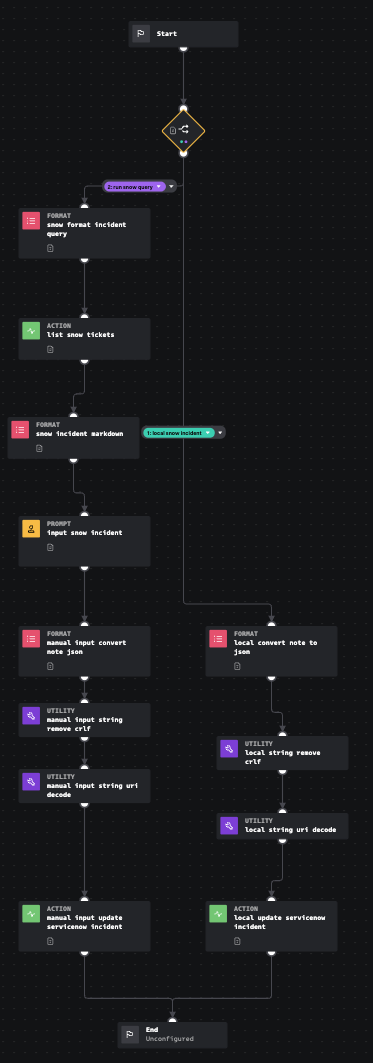
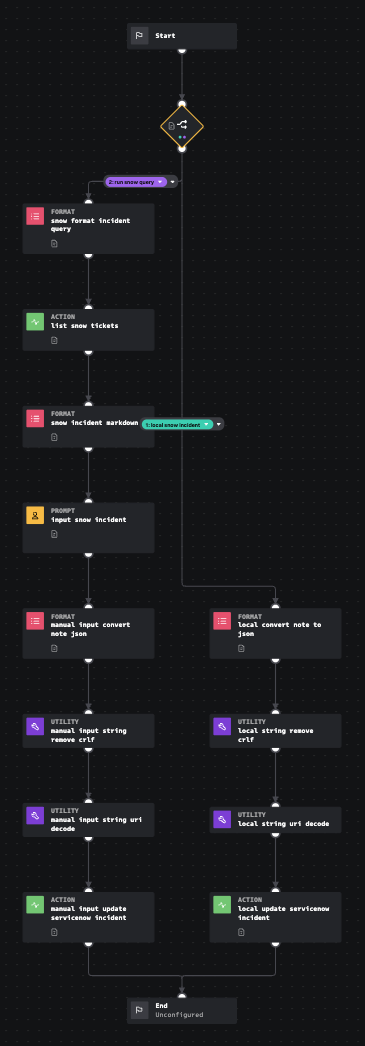
Updating Update Notes to add epoch converter
Updating Update Notes to add epoch converter and also to fix format blocks and squiggly lines.

diff --git a/ServiceNow_Update_Incident_Notes.py b/ServiceNow_Update_Incident_Notes.py
@@ -93,13 +93,6 @@ def update_servicenow_incident(action=None, success=None, container=None, result
 
     # phantom.debug('Action: {0} {1}'.format(action['name'], ('SUCCEEDED' if success else 'FAILED')))
 
-    fields_formatted_string = phantom.format(
-        container=container,
-        template="""{0}\n""",
-        parameters=[
-            "string_uri_decode:custom_function_result.data.decoded_string"
-        ])
-
     ################################################################################
     # This will input the note that was configured to be sent from parent playbook 
     # in the start block to the Service Now Incident. 
@@ -117,7 +110,7 @@ def update_servicenow_incident(action=None, success=None, container=None, result
                 parameters.append({
                     "id": finding_data_item[0],
                     "table": "incident",
-                    "fields": fields_formatted_string,
+                    "fields": string_uri_decode__result_item[0],
                 })
 
     ################################################################################
@@ -164,7 +157,7 @@ def list_demux(action=None, success=None, container=None, results=None, handle=N
     ## Custom Code End
     ################################################################################
 
-    phantom.custom_function(custom_function="community/list_demux", parameters=parameters, name="list_demux", callback=loop_convert_to_html)
+    phantom.custom_function(custom_function="community/list_demux", parameters=parameters, name="list_demux", callback=convert_create_time_to_readable)
 
     return
 
@@ -178,13 +171,13 @@ def loop_convert_to_html(action=None, success=None, container=None, results=None
     # HTML which for service now looks better. 
     ################################################################################
 
-    template = """[code]\n<h4>ES Notes</h4>\n%%\n<b>Task</b> {4}\n<br/><b>Author</b> {3}\n<br/><b>Created Time</b> {2}\n<br/><b>title</b> {1}\n<br/><b>content</b> {0}\n<br/><br/>\n%%\n[/code]"""
+    template = """[code]\n<h4>ES Notes</h4>\n%%\n<b>Phase</b> {1}\n<br/><b>Task</b> {4}\n<br/><b>Author</b> {3}\n<br/><b>Created Time</b> {2} \n<br/><b>Note Content</b> {0}\n<br/><br/>\n%%\n[/code]\n"""
 
     # parameter list for template variable replacement
     parameters = [
         "list_demux:custom_function_result.data.output.content",
-        "list_demux:custom_function_result.data.output.title",
-        "list_demux:custom_function_result.data.output.create_time",
+        "list_demux:custom_function_result.data.output.response_plan_info.response_phase.name",
+        "convert_create_time_to_readable:custom_function_result.data.output_iso8601",
         "list_demux:custom_function_result.data.output.author.realname",
         "list_demux:custom_function_result.data.output.response_plan_info.response_task.name"
     ]
@@ -258,6 +251,35 @@ def string_uri_decode(action=None, success=None, container=None, results=None, h
     ################################################################################
 
     phantom.custom_function(custom_function="community/string_uri_decode", parameters=parameters, name="string_uri_decode", callback=update_servicenow_incident)
+
+    return
+
+
+@phantom.playbook_block()
+def convert_create_time_to_readable(action=None, success=None, container=None, results=None, handle=None, filtered_artifacts=None, filtered_results=None, custom_function=None, loop_state_json=None, **kwargs):
+    phantom.debug("convert_create_time_to_readable() called")
+
+    list_demux__result = phantom.collect2(container=container, datapath=["list_demux:custom_function_result.data.output.create_time"])
+
+    parameters = []
+
+    # build parameters list for 'convert_create_time_to_readable' call
+    for list_demux__result_item in list_demux__result:
+        parameters.append({
+            "input_epoch": list_demux__result_item[0],
+        })
+
+    ################################################################################
+    ## Custom Code Start
+    ################################################################################
+
+    # Write your custom code here...
+
+    ################################################################################
+    ## Custom Code End
+    ################################################################################
+
+    phantom.custom_function(custom_function="community/string_epoch_to_timestamp", parameters=parameters, name="convert_create_time_to_readable", callback=loop_convert_to_html)
 
     return
 

diff --git a/ServiceNow_Update_Incident.py b/ServiceNow_Update_Incident.py
@@ -205,13 +205,6 @@ def manual_input_update_servicenow_incident(action=None, success=None, container
 
     # phantom.debug('Action: {0} {1}'.format(action['name'], ('SUCCEEDED' if success else 'FAILED')))
 
-    fields_formatted_string = phantom.format(
-        container=container,
-        template="""{0}\n""",
-        parameters=[
-            "manual_input_string_uri_decode:custom_function_result.data.decoded_string"
-        ])
-
     ################################################################################
     # This will input the note that was configured to be sent from parent playbook 
     # in the start block to the Service Now Incident. 
@@ -229,7 +222,7 @@ def manual_input_update_servicenow_incident(action=None, success=None, container
                 parameters.append({
                     "id": input_snow_incident_result_item[0],
                     "table": "incident",
-                    "fields": fields_formatted_string,
+                    "fields": manual_input_string_uri_decode__result_item[0],
                     "context": {'artifact_id': input_snow_incident_result_item[1]},
                 })
 
@@ -318,13 +311,6 @@ def local_update_servicenow_incident(action=None, success=None, container=None, 
 
     # phantom.debug('Action: {0} {1}'.format(action['name'], ('SUCCEEDED' if success else 'FAILED')))
 
-    fields_formatted_string = phantom.format(
-        container=container,
-        template="""{0}\n""",
-        parameters=[
-            "local_string_uri_decode:custom_function_result.data.decoded_string"
-        ])
-
     ################################################################################
     # This will input the note that was configured to be sent from parent playbook 
     # in the start block to the Service Now Incident. 
@@ -342,7 +328,7 @@ def local_update_servicenow_incident(action=None, success=None, container=None, 
                 parameters.append({
                     "id": playbook_input_snow_incident_item[0],
                     "table": "incident",
-                    "fields": fields_formatted_string,
+                    "fields": local_string_uri_decode__result_item[0],
                 })
 
     ################################################################################
